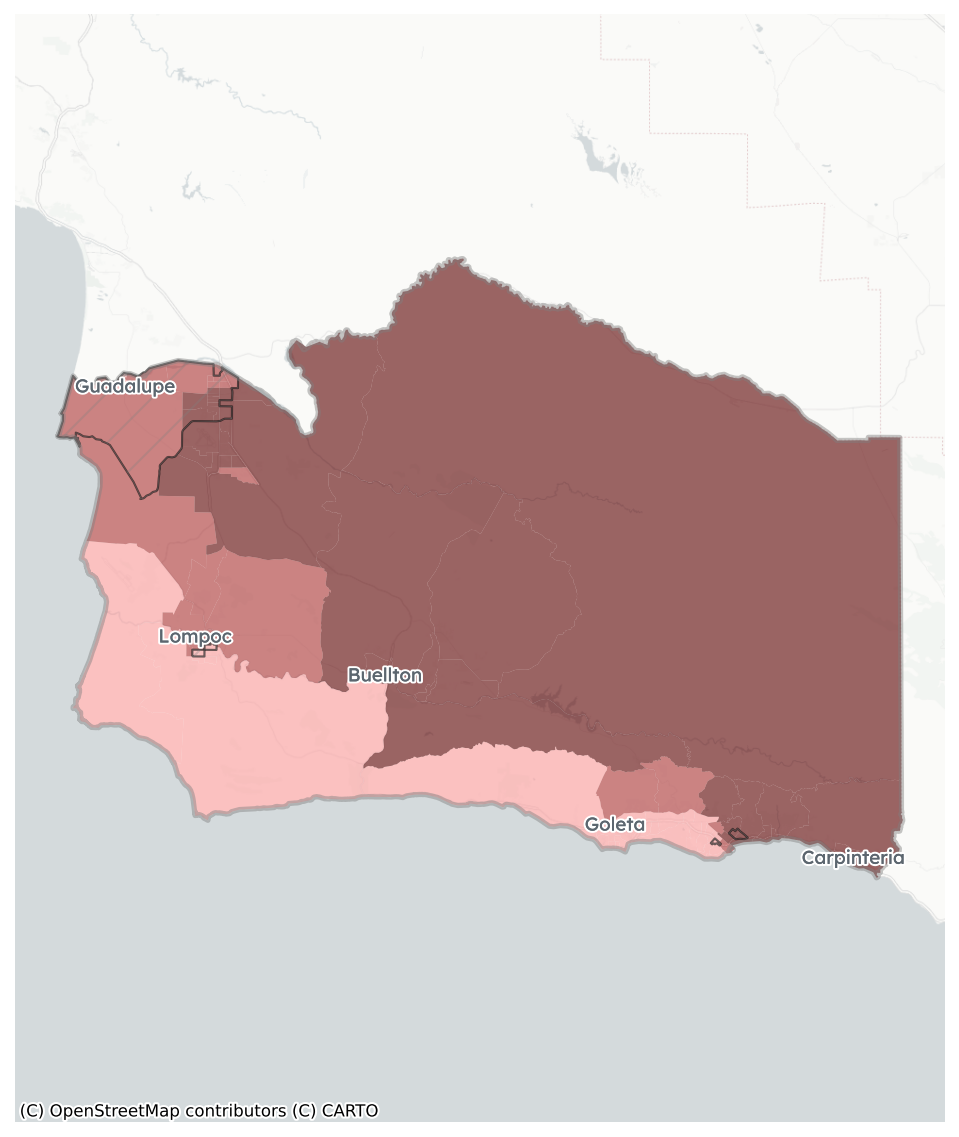
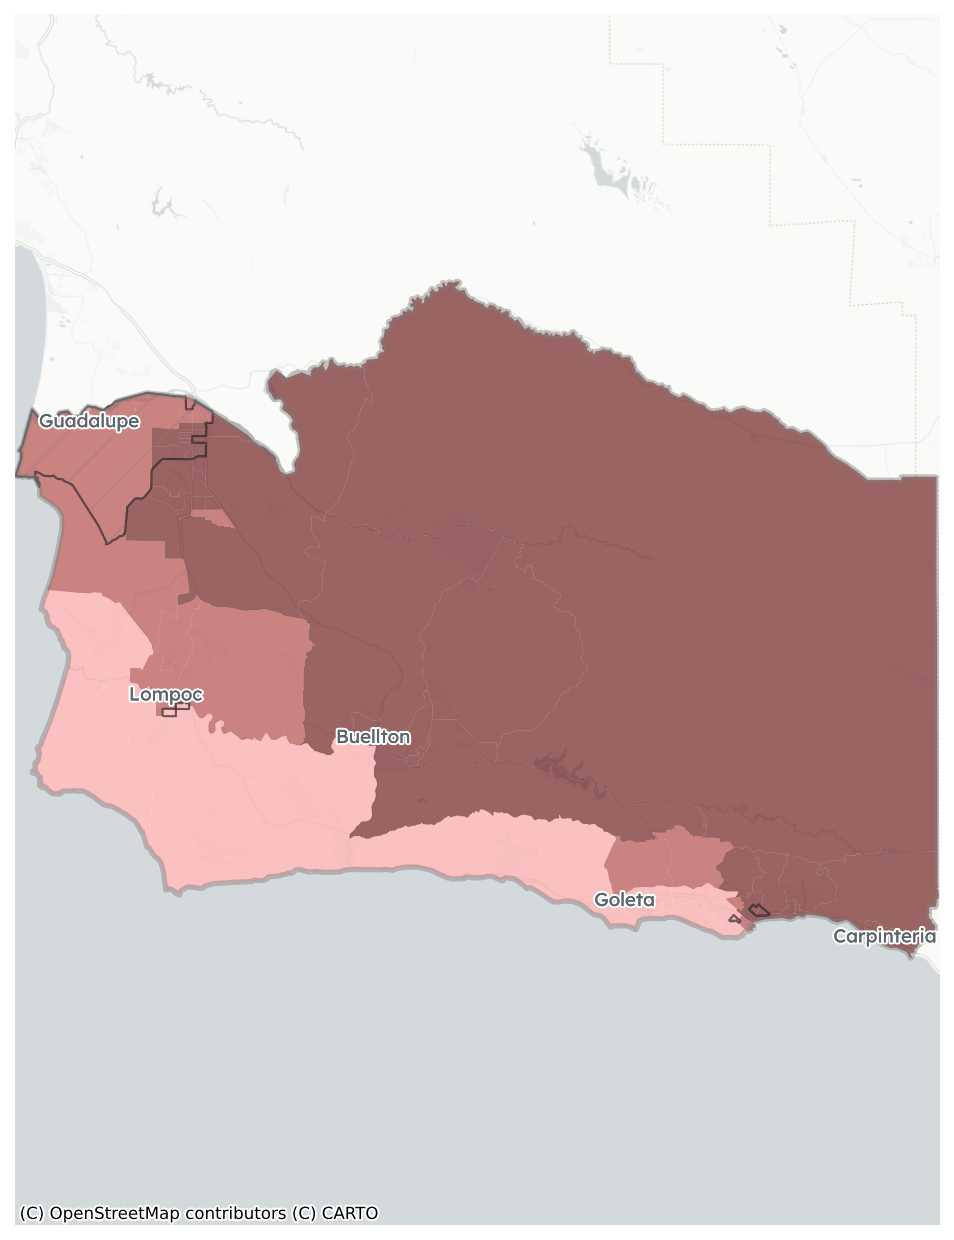
feat: updated maps in output folder

diff --git a/map_utils.py b/map_utils.py
@@ -28,6 +28,33 @@ output_geojson_path = 'output/joined_heat_data.geojson'
 
 heat_variable = 'categorical_average'
 
+def adjust_bounds_to_ratio(bounds, desired_ratio):
+    """
+    Given bounds (minx, miny, maxx, maxy) and desired_ratio (width/height),
+    returns new bounds that preserve the center while ensuring the exact ratio.
+    """
+    minx, miny, maxx, maxy = bounds
+    center_x = (minx + maxx) / 2
+    center_y = (miny + maxy) / 2
+    width = maxx - minx
+    height = maxy - miny
+    current_ratio = width / height
+
+    if current_ratio < desired_ratio:
+        # width is too narrow – expand width
+        new_width = desired_ratio * height
+        new_height = height
+    else:
+        # height is too short – expand height
+        new_width = width
+        new_height = width / desired_ratio
+
+    new_minx = center_x - new_width / 2
+    new_maxx = center_x + new_width / 2
+    new_miny = center_y - new_height / 2
+    new_maxy = center_y + new_height / 2
+
+    return (new_minx, new_miny, new_maxx, new_maxy)
 def join_heat_data_to_census(census_geojson_path, heat_data_path, output_geojson_path):
 	try:
 		print(f"Loading census GeoJSON data from {census_geojson_path}")
@@ -70,14 +97,14 @@ def apply_special_adjustments(county, bounds):
     Returns the adjusted bounds (minx, miny, maxx, maxy).
     """
     special_adjustments = {
-        "Kings": {"shift_y": 5000},
-        "Los Angeles": {"shift_y": 10000},
-        "Merced": {"shift_y": 5000},
-        "Sacramento": {"shift_y": 5000},
-        "San Joaquin": {"shift_y": 5000},
-        "San Mateo": {"shift_y": 5000, "shift_x": 2000},
+        "Kings": {"shift_y": 20000, "zoom_factor": 0.7},
+        "Los Angeles": {"shift_y": 50000, "zoom_factor": 0.9},
+        "Merced": {"shift_y": 20000},
+        "Sacramento": {"shift_y": 15000, "zoom_factor": 0.8},
+        "San Joaquin": {"shift_y": 5000, "zoom_factor": 0.7},
+        "San Mateo": {"shift_y": 1000, "shift_x": 2000},
         "Stanislaus": {"shift_y": 3000},
-        "Ventura": {"shift_y": 5000, "zoom_factor": 0.9}  # For example, zoom out slightly.
+        "Ventura": {"shift_y": 5000, "zoom_factor": 0.75}  # For example, zoom out slightly.
     }
     
     minx, miny, maxx, maxy = bounds
@@ -313,10 +340,19 @@ def generate_majority_tracts_map(
 				)
 
 				# Adjust plot limits to maintain aspect ratio
-				bounds = county_gdf.total_bounds  # minx, miny, maxx, maxy
+				# Get raw bounds from the data
+				bounds = county_gdf.total_bounds  # (minx, miny, maxx, maxy)
+				
+				# Apply your special adjustments first
 				bounds = apply_special_adjustments(county, bounds)
-
+				
+				# Force the final bounds to have the exact aspect ratio
+				bounds = adjust_bounds_to_ratio(bounds, aspect_ratio)
+				
 				minx, miny, maxx, maxy = bounds
+				ax.set_xlim(minx, maxx)
+				ax.set_ylim(miny, maxy)
+				ax.set_aspect('equal')
 				current_ratio = (maxx - minx) / (maxy - miny)
 				desired_ratio = aspect_ratio  # ≈0.776
 
